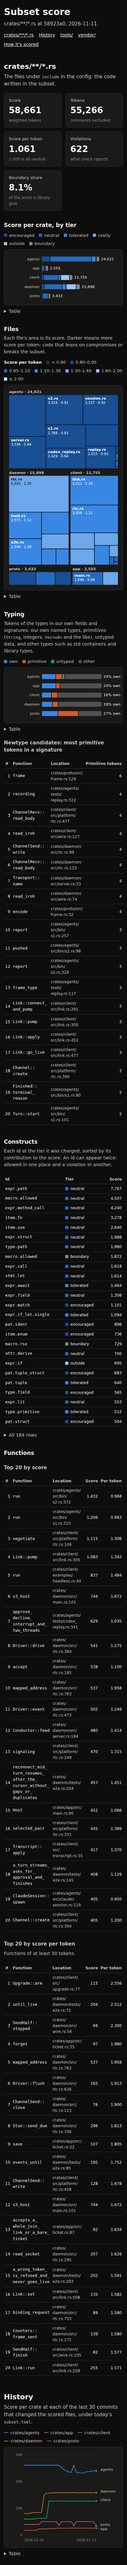
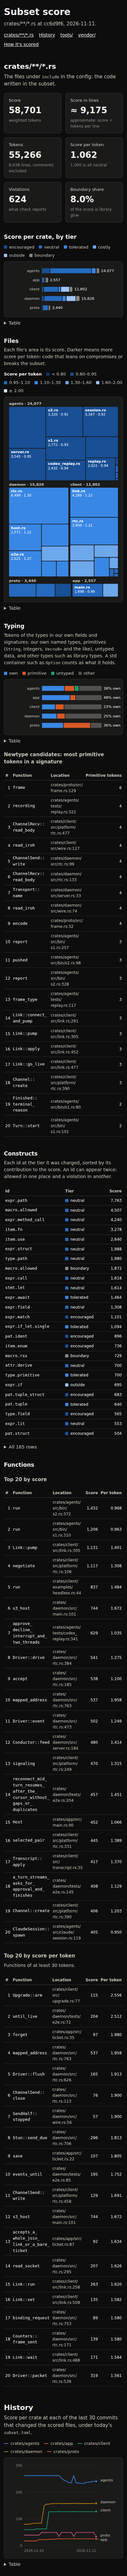
Fit the score-in-lines tile and regenerate the report previews
The tile shows "≈ N" under its label so six tiles fit one row on a
desktop. The previews are rendered with headless Chromium at 1280 and
390 px, light and dark, cropped to the main group and history.

Changed region(s): [[0.0308, 0.0, 0.9538, 0.9659], [0.3385, 0.0, 0.4308, 0.0312]]

diff --git a/src/report.rs b/src/report.rs
@@ -105,8 +105,8 @@ fn tiles(total: &Row, violations: usize, w: &TierWeights) -> String {
         )
     };
     let in_lines = format!(
-        "<div class=\"tile\" title=\"{APPROX_LINES}\"><div class=\"label\">Score in lines</div><div class=\"value\">{}</div><div class=\"hint\">approximate: score ÷ tokens per line</div></div>",
-        approx_lines(total, w)
+        "<div class=\"tile\" title=\"{APPROX_LINES}\"><div class=\"label\">Score in lines</div><div class=\"value\">≈ {}</div><div class=\"hint\">approximate: score ÷ tokens per line</div></div>",
+        whole(total.approx_lines(w))
     );
     format!(
         "<div class=\"tiles\">{}{in_lines}{}{}{}{}</div>",
@@ -1126,7 +1126,7 @@ h2 { font-size: 22px; margin: 0 0 4px; }
 h3 { font-size: 17px; margin: 32px 0 4px; }
 h4 { font-size: 15px; margin: 20px 0 8px; color: var(--text-secondary); font-weight: 600; }
 .badge { font-size: 12px; font-weight: 600; text-transform: uppercase; letter-spacing: 0.04em; border: 1px solid var(--axis); border-radius: 4px; padding: 1px 6px; vertical-align: 3px; color: var(--text-secondary); }
-.tiles { display: grid; grid-template-columns: repeat(auto-fit, minmax(160px, 1fr)); gap: 12px; margin: 16px 0; }
+.tiles { display: grid; grid-template-columns: repeat(auto-fit, minmax(140px, 1fr)); gap: 12px; margin: 16px 0; }
 .tile { background: var(--surface-1); border: 1px solid var(--border); border-radius: 8px; padding: 12px 14px; }
 .tile .label { font-size: 13px; color: var(--text-secondary); }
 .tile .value { font-size: 26px; font-weight: 600; margin: 2px 0; }

diff --git a/tests/cli.rs b/tests/cli.rs
@@ -1774,7 +1774,7 @@ fn report_html_writes_one_static_page_with_history() {
     // History: the first commit's enum alone scored 3.0.
     for expected in [
         "<div class=\"value\">29</div>",
-        "<div class=\"value\">≈ 3 lines</div>",
+        "<div class=\"value\">≈ 3</div>",
         "<div class=\"value\">40</div>",
         "4 lines, comments excluded",
         "40 tokens · 4 lines, score ≈ 3 lines",
